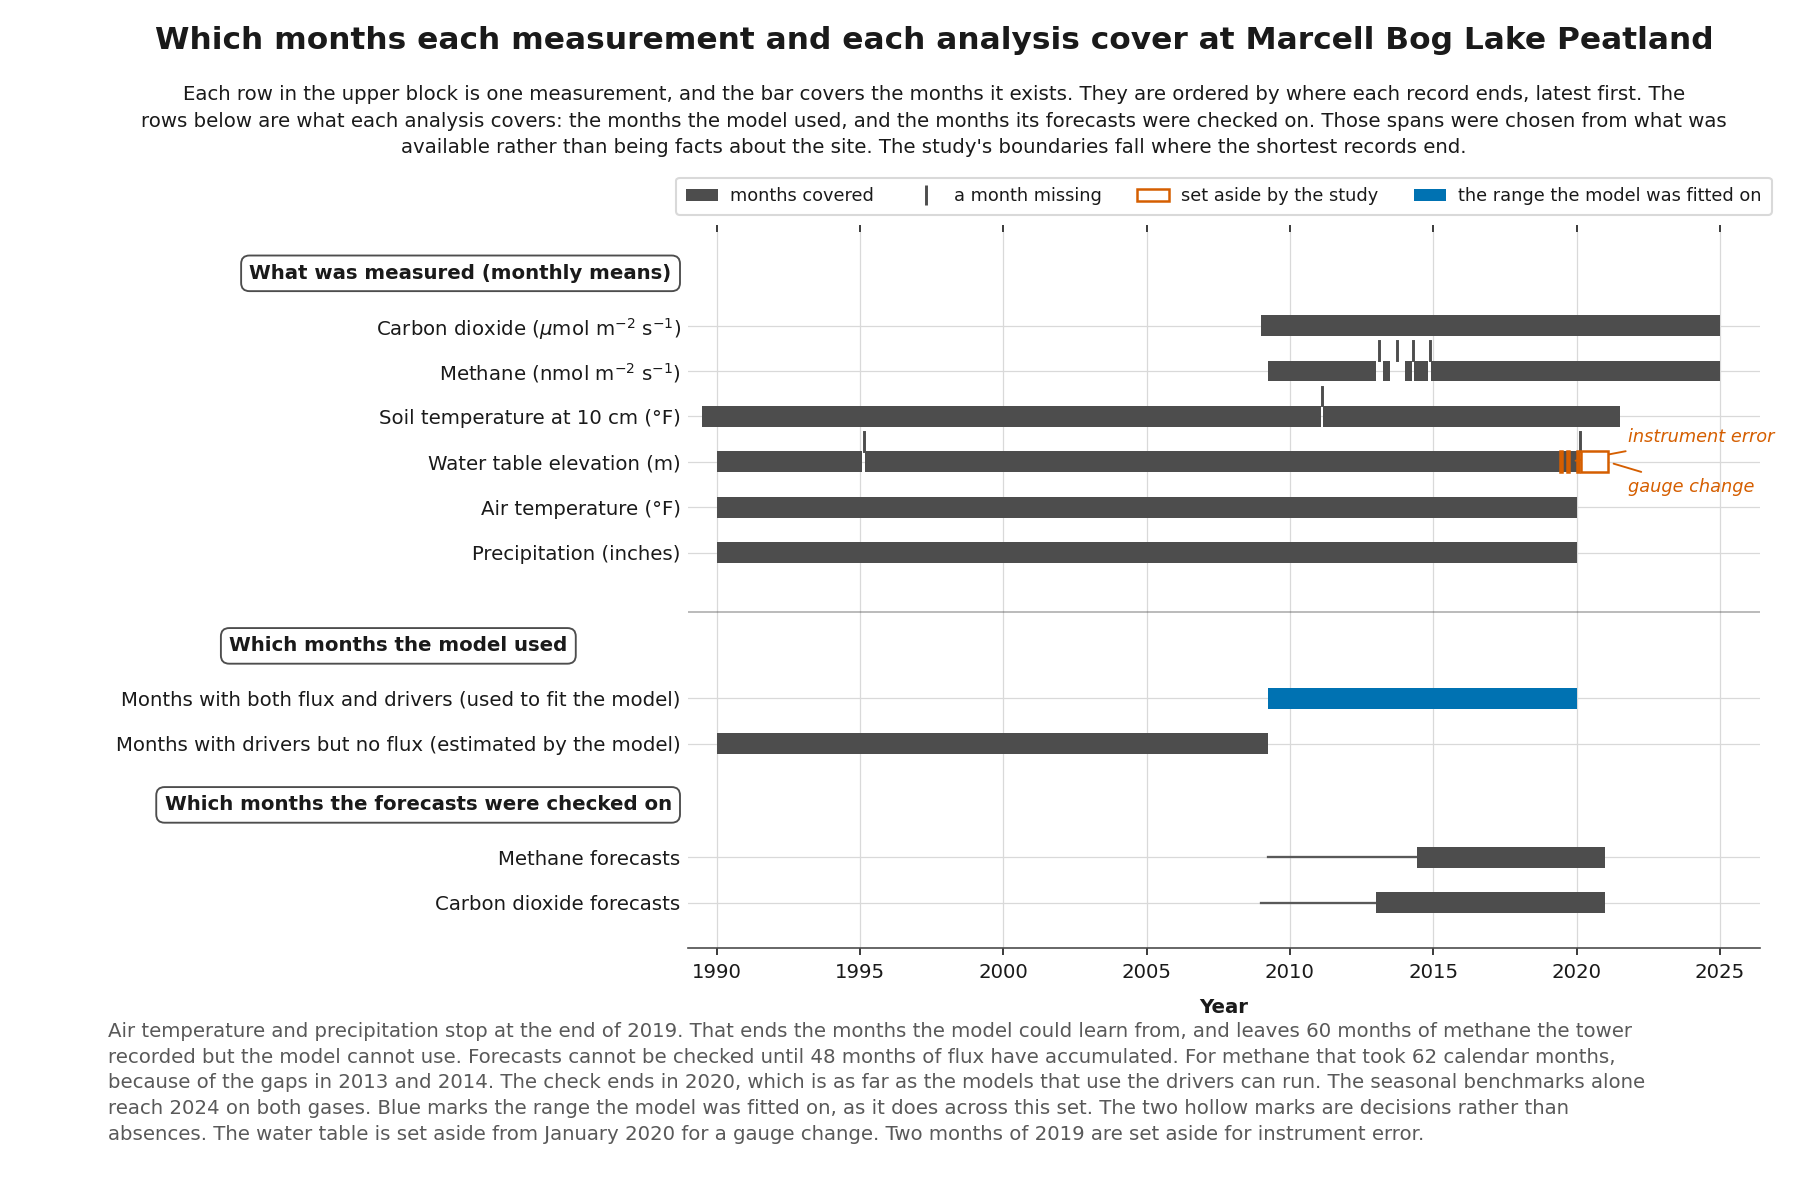
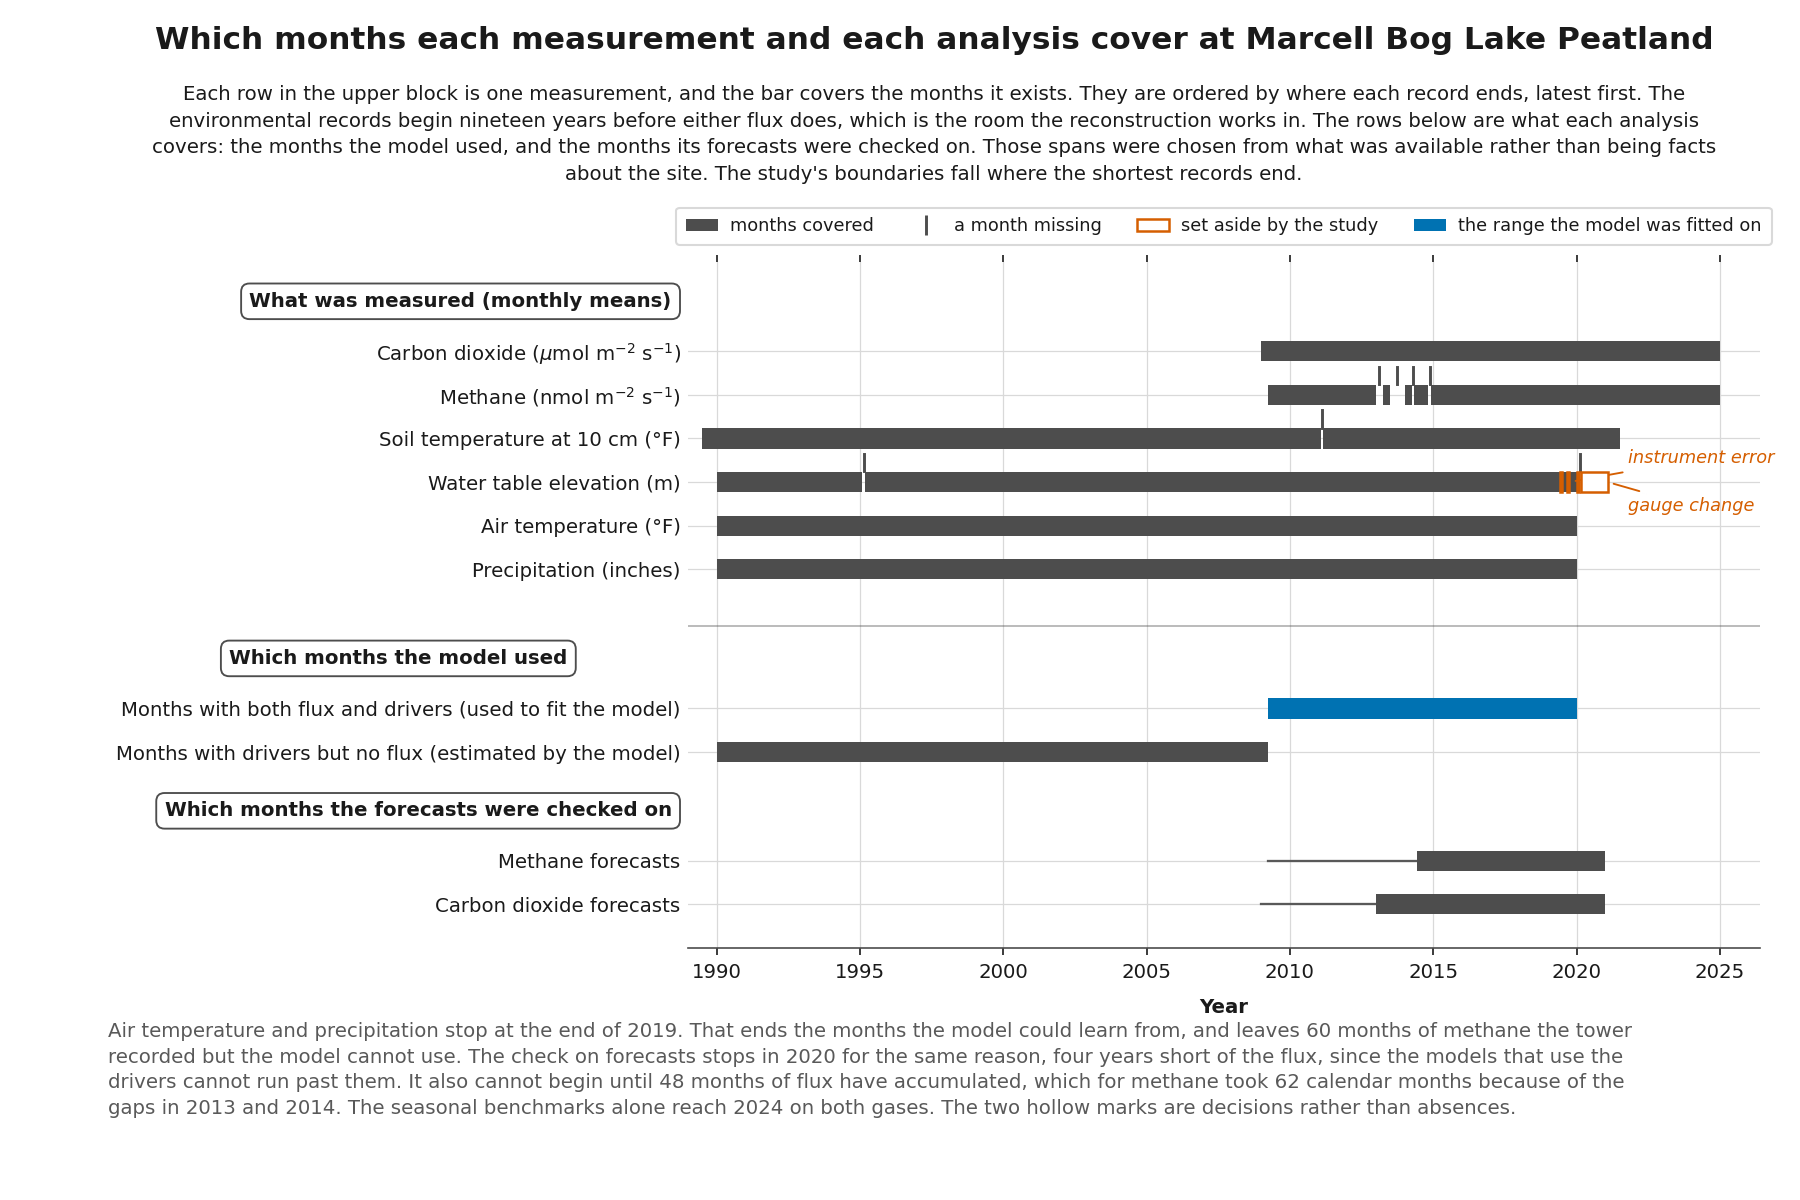
Trim the availability description and name the left edges
The description ran to its five-line cap. Cut the sentence saying blue
marks the fitted range, which the key's fourth entry already says, and
the two sentences giving the set-aside dates, which the panel's own
callouts label in words. Kept the sentence saying the hollow marks are
decisions rather than absences: that is the one thing the callouts do not
say, and on a coverage figure a hollow mark would otherwise read as
missing data. 727 characters to 588, five lines to four.

Moved the forecast-check limit from fifth sentence to third and named the
gap as four years short of the flux, which is what a reader sees on the
panel now that both gases run to 2024.

The subtitle gains one sentence: the environmental records begin nineteen
years before either flux does, which is the room the reconstruction works
in. The block splits at both ends and only the right edges were stated.
It sits with the other statement about the measurement block and before
the boundary sentence, which stays the last thing read. Nineteen
understates, soil temperature beginning six months earlier still.

The blue-convention test now asserts the key carries it and the
description does not, so it can neither go unstated nor be said twice.
Its docstring records why the original premise expired.

diff --git a/src/study/figures.py b/src/study/figures.py
@@ -1393,23 +1393,23 @@ AVAILABILITY_TEXT = ps.FigureText(
     subtitle=(
         "Each row in the upper block is one measurement, and the bar covers the "
         "months it exists. They are ordered by where each record ends, latest "
-        "first. The rows below are what each analysis covers: the months the model "
-        "used, and the months its forecasts were checked on. Those spans were "
-        "chosen from what was available rather than being facts about the site. "
-        "The study's boundaries fall where the shortest records end."
+        "first. The environmental records begin nineteen years before either flux "
+        "does, which is the room the reconstruction works in. The rows below are "
+        "what each analysis covers: the months the model used, and the months its "
+        "forecasts were checked on. Those spans were chosen from what was "
+        "available rather than being facts about the site. The study's boundaries "
+        "fall where the shortest records end."
     ),
     description=(
         "Air temperature and precipitation stop at the end of 2019. That ends the "
         "months the model could learn from, and leaves 60 months of methane the "
-        "tower recorded but the model cannot use. Forecasts cannot be checked "
-        "until 48 months of flux have accumulated. For methane that took 62 "
-        "calendar months, because of the gaps in 2013 and 2014. The check ends in "
-        "2020, which is as far as the models that use the drivers can run. The "
-        "seasonal benchmarks alone reach 2024 on both gases. Blue marks the range "
-        "the model was "
-        "fitted on, as it does across this set. The two hollow marks are decisions "
-        "rather than absences. The water table is set aside from January 2020 for "
-        "a gauge change. Two months of 2019 are set aside for instrument error."
+        "tower recorded but the model cannot use. The check on forecasts stops in "
+        "2020 for the same reason, four years short of the flux, since the models "
+        "that use the drivers cannot run past them. It also cannot begin until 48 "
+        "months of flux have accumulated, which for methane took 62 calendar "
+        "months because of the gaps in 2013 and 2014. The seasonal benchmarks "
+        "alone reach 2024 on both gases. The two hollow marks are decisions rather "
+        "than absences."
     ),
 )
 

diff --git a/tests/test_availability_figure.py b/tests/test_availability_figure.py
@@ -173,9 +173,20 @@ def test_the_key_covers_every_mark_on_the_panel_and_carries_no_reasons():
 
 
 def test_the_blue_convention_is_stated_somewhere_on_the_figure():
-    """A reader meeting this figure first has no other way to know what it means."""
-    assert "Blue marks the range the model was fitted on" in \
+    """A reader meeting this figure first has to be told what blue means.
+
+    The description carried a sentence saying so until the key gained a fourth
+    entry naming the fitted range. Two statements of one convention is one more
+    than the figure needs, and the key is where a reader looks for it, so the
+    sentence went and this now checks the key rather than the words.
+    """
+    fig = figure()
+    key = next(ax.get_legend() for ax in fig.axes if ax.get_legend())
+    labels = [text.get_text() for text in key.get_texts()]
+    assert figures.FITTED_RANGE_LABEL in labels
+    assert "Blue marks the range the model was fitted on" not in \
         figures.AVAILABILITY_TEXT.description
+    ps.plt.close(fig)
 
 
 def test_one_neutral_serves_every_bar_that_is_not_the_fitted_range():
@@ -388,3 +399,21 @@ def test_the_time_axis_is_named_and_the_row_axis_is_not():
 
 def test_the_title_names_the_site():
     assert "Marcell Bog Lake Peatland" in figures.AVAILABILITY_TEXT.title
+
+
+def test_the_subtitle_says_the_block_splits_at_both_ends():
+    """The right edges say where the fit window had to stop. The left edges say
+    why a reconstruction is possible at all, and nothing else on the figure
+    states it. Nineteen understates: three of the four environmental records
+    begin 1990-01 against carbon dioxide at 2009-01, and soil temperature begins
+    six months earlier still, so the figure claims less than it draws.
+    """
+    said = figures.AVAILABILITY_TEXT.subtitle
+    assert "begin nineteen years before either flux does" in said
+    assert "the room the reconstruction works in" in said
+    # Placed with the other statement about the measurement block, and before the
+    # boundary sentence, which stays the last thing read.
+    assert said.index("latest first") < said.index("nineteen years")
+    assert said.index("nineteen years") < said.index("The rows below")
+    assert said.rstrip().endswith("The study's boundaries fall where the shortest "
+                                  "records end.")

diff --git a/figures/README_fragments.md b/figures/README_fragments.md
@@ -74,9 +74,9 @@ What the repeating shape leaves is half the variation in the record: 0.51 of the
 
 ![Which months each measurement and each analysis cover at Marcell Bog Lake Peatland](figures/covariate_availability.png)
 
-**Each row in the upper block is one measurement, and the bar covers the months it exists. They are ordered by where each record ends, latest first. The rows below are what each analysis covers: the months the model used, and the months its forecasts were checked on. Those spans were chosen from what was available rather than being facts about the site. The study's boundaries fall where the shortest records end.**
+**Each row in the upper block is one measurement, and the bar covers the months it exists. They are ordered by where each record ends, latest first. The environmental records begin nineteen years before either flux does, which is the room the reconstruction works in. The rows below are what each analysis covers: the months the model used, and the months its forecasts were checked on. Those spans were chosen from what was available rather than being facts about the site. The study's boundaries fall where the shortest records end.**
 
-Air temperature and precipitation stop at the end of 2019. That ends the months the model could learn from, and leaves 60 months of methane the tower recorded but the model cannot use. Forecasts cannot be checked until 48 months of flux have accumulated. For methane that took 62 calendar months, because of the gaps in 2013 and 2014. The check ends in 2020, which is as far as the models that use the drivers can run. The seasonal benchmarks alone reach 2024 on both gases. Blue marks the range the model was fitted on, as it does across this set. The two hollow marks are decisions rather than absences. The water table is set aside from January 2020 for a gauge change. Two months of 2019 are set aside for instrument error.
+Air temperature and precipitation stop at the end of 2019. That ends the months the model could learn from, and leaves 60 months of methane the tower recorded but the model cannot use. The check on forecasts stops in 2020 for the same reason, four years short of the flux, since the models that use the drivers cannot run past them. It also cannot begin until 48 months of flux have accumulated, which for methane took 62 calendar months because of the gaps in 2013 and 2014. The seasonal benchmarks alone reach 2024 on both gases. The two hollow marks are decisions rather than absences.
 
 ### Diagnostic check on model errors at Marcell Bog Lake Peatland (2009 to 2019)
 

diff --git a/notes/study.md b/notes/study.md
@@ -2997,6 +2997,39 @@ inverse-variance weighting, which this figure gives independent reason to
 distrust — it already reduces effective sample size from 115 to 42.3, and now
 the residuals say its weights do not describe their spread.
 
+### The availability figure's row ordering, after methane reached 2024
+
+**The rows sort by where each record ends, latest first, and that rule was chosen
+to make one relationship visible: the study's boundaries fall where the shortest
+records end.** With methane extended to 2024 the right edges run **2024-12,
+2024-12, 2021-06, 2021-01, 2019-12, 2019-12** — steps of 0, **42 months**, 5, 13
+and 0.
+
+**It is not a staircase and it never was.** Before the extension the steps were
+36, 6, 5, 13 and 0: one row alone at the top, five clustered below. The extension
+moved the top group from one row to two and the drop from 36 months to 42. Four
+of the six rows still end within eighteen months of each other, so most of the
+visible descent is a single cliff.
+
+**The cliff is the finding, so the shape encodes the constraint rather than
+hiding it.** Flux runs to 2024 and the drivers stop in 2019; that gap is what
+bounds the fit window, and it is what the drop between the second and third rows
+draws. Recorded so a future reader does not re-derive this, or mistake the shape
+for a defect and change the ordering rule to something that reads more evenly.
+The rule is doing its job. What confirms it is the alignment rather than the
+descent: air temperature and precipitation are now the bottom two rows of the
+measurement block, and the blue fitted-range bar sits directly beneath them with
+its right edge level at 2019-12, so the relationship the ordering exists for now
+happens between adjacent rows rather than across a gap.
+
+**The block splits at both ends, and the left edge is the sharper half.** Both
+gases begin in 2009 while all four environmental records begin in 1990. The right
+edges say where the fit window had to stop; **the left edges say why a
+reconstruction is possible at all** — nineteen years of drivers standing before
+any flux was measured is the entire opportunity the reconstruction half of this
+study exploits. That is the figure's second true message rather than a defect in
+the grouping, and nothing on the figure currently states it.
+
 ### The seasonal split figure
 
 `figures/seasonal_cycle.png`, built by `study.figures.seasonal_cycle` from
